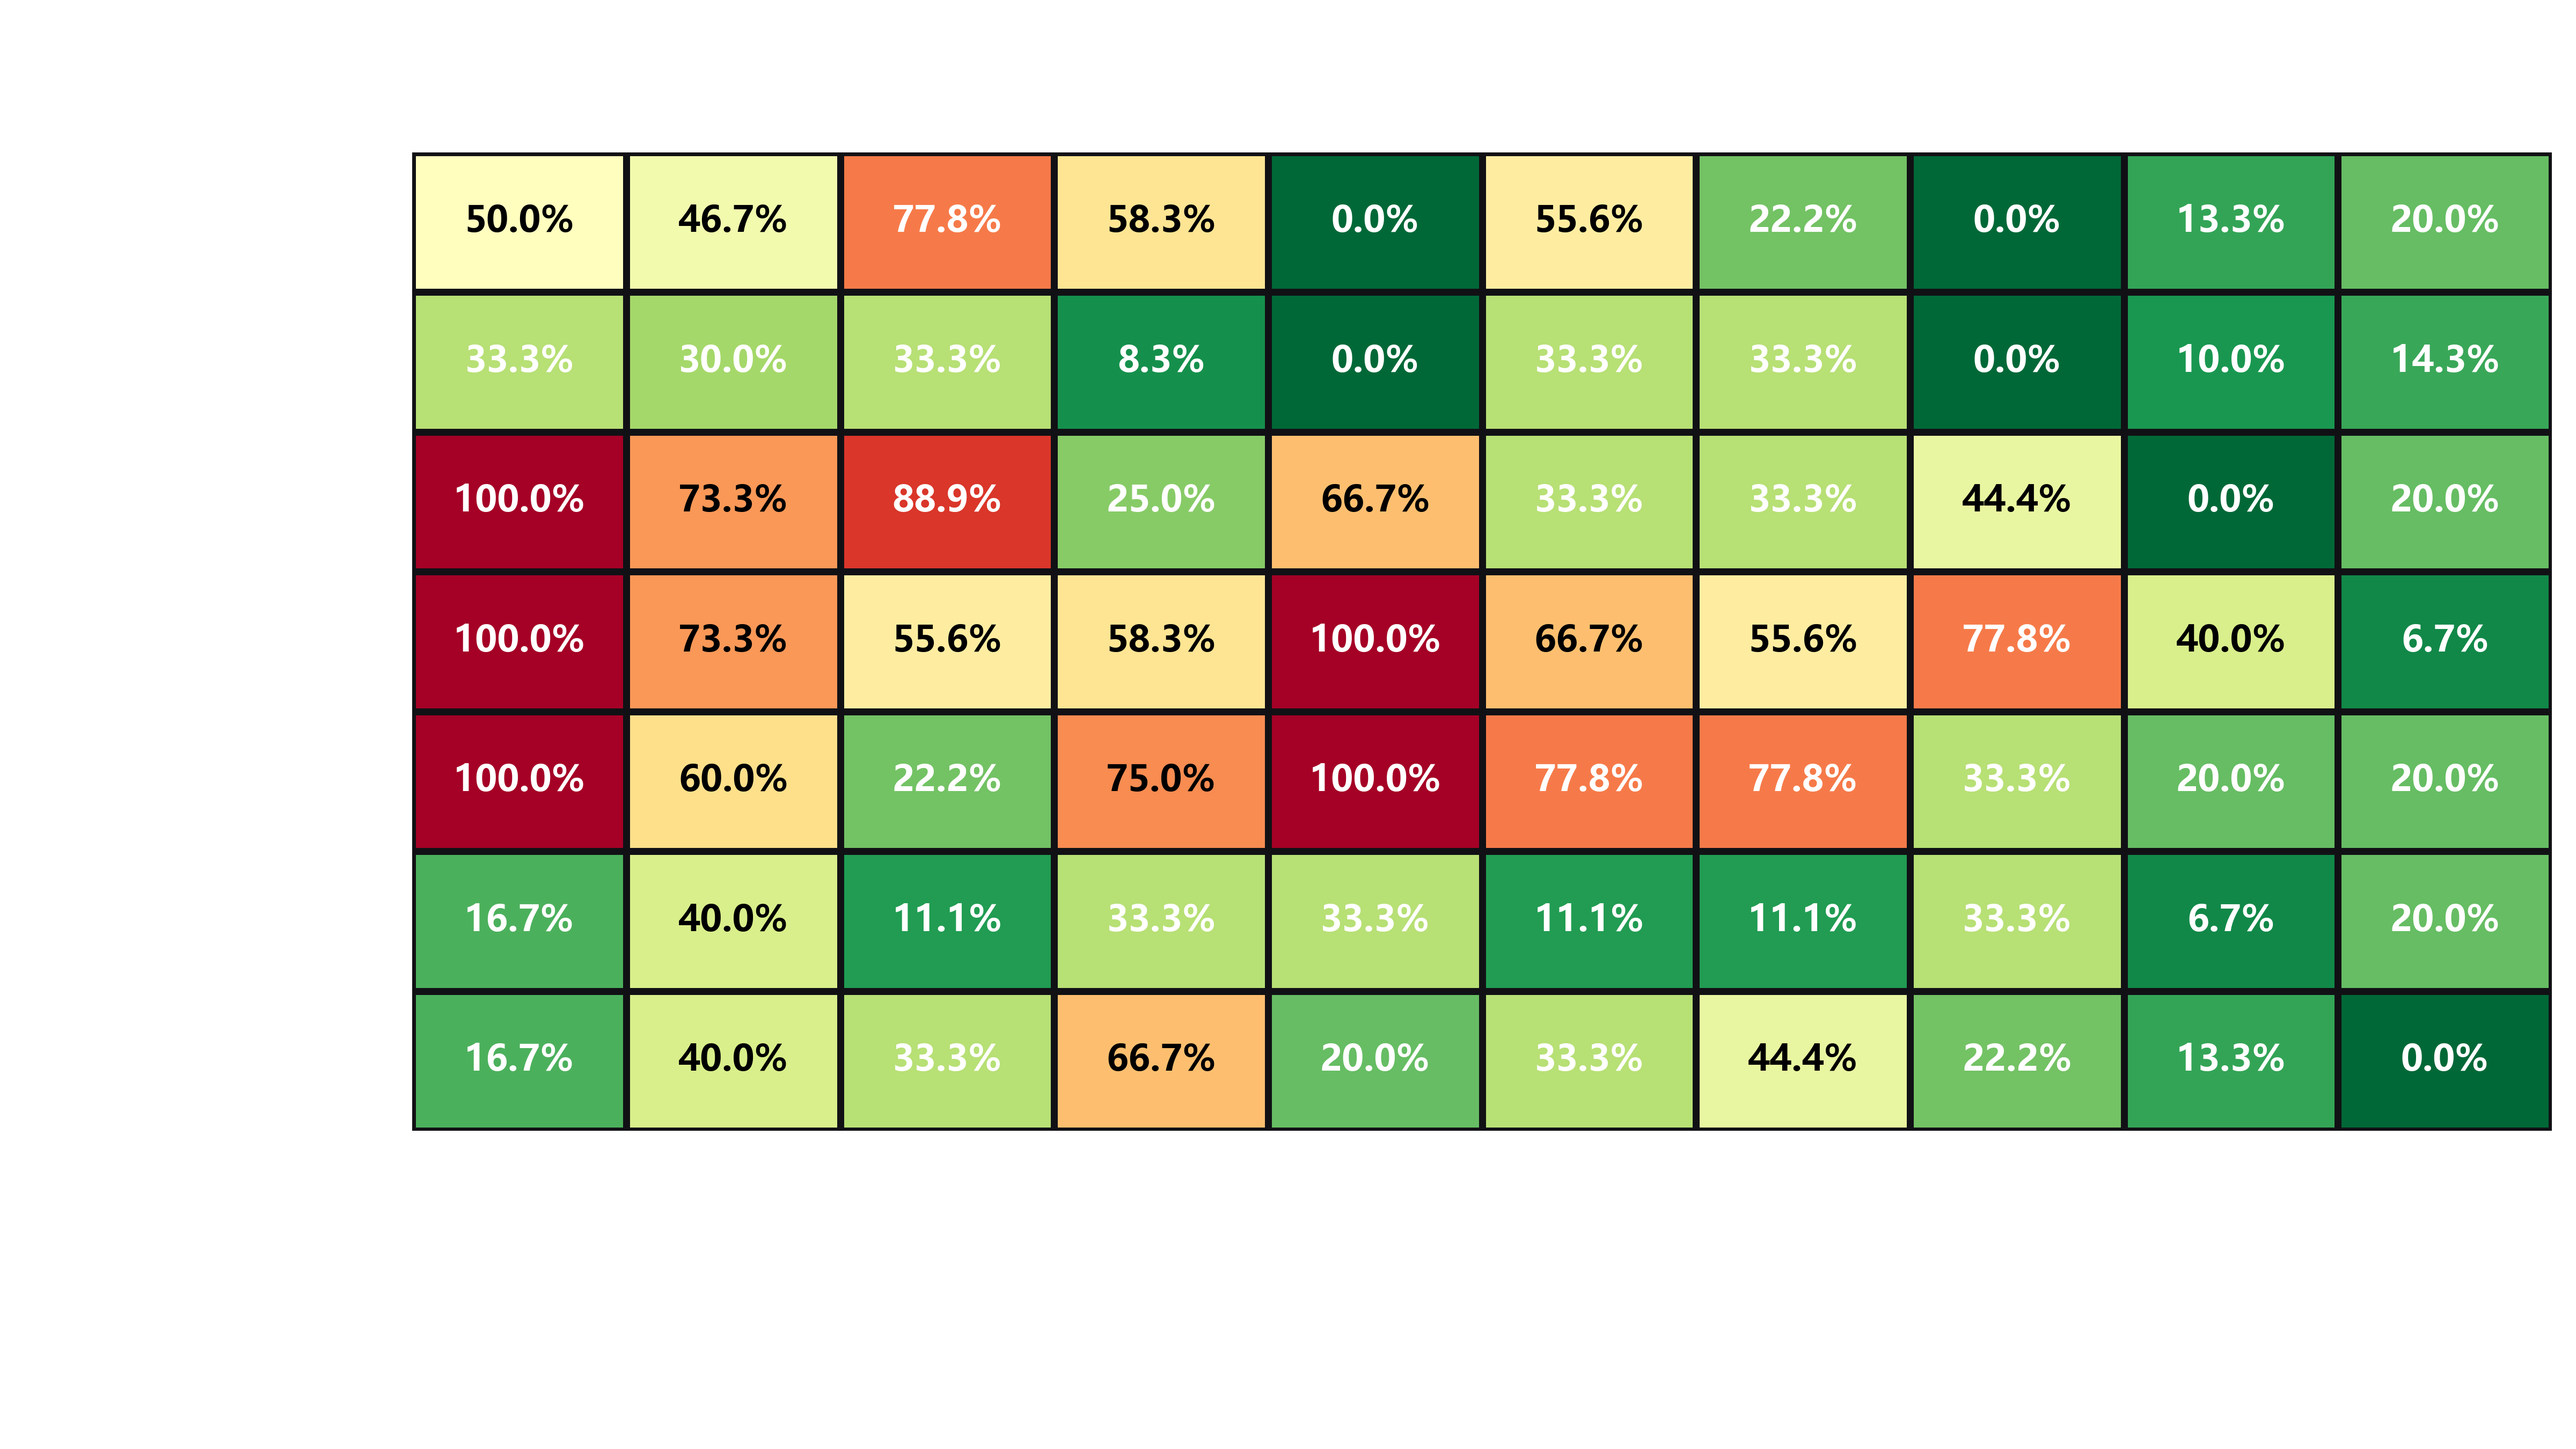
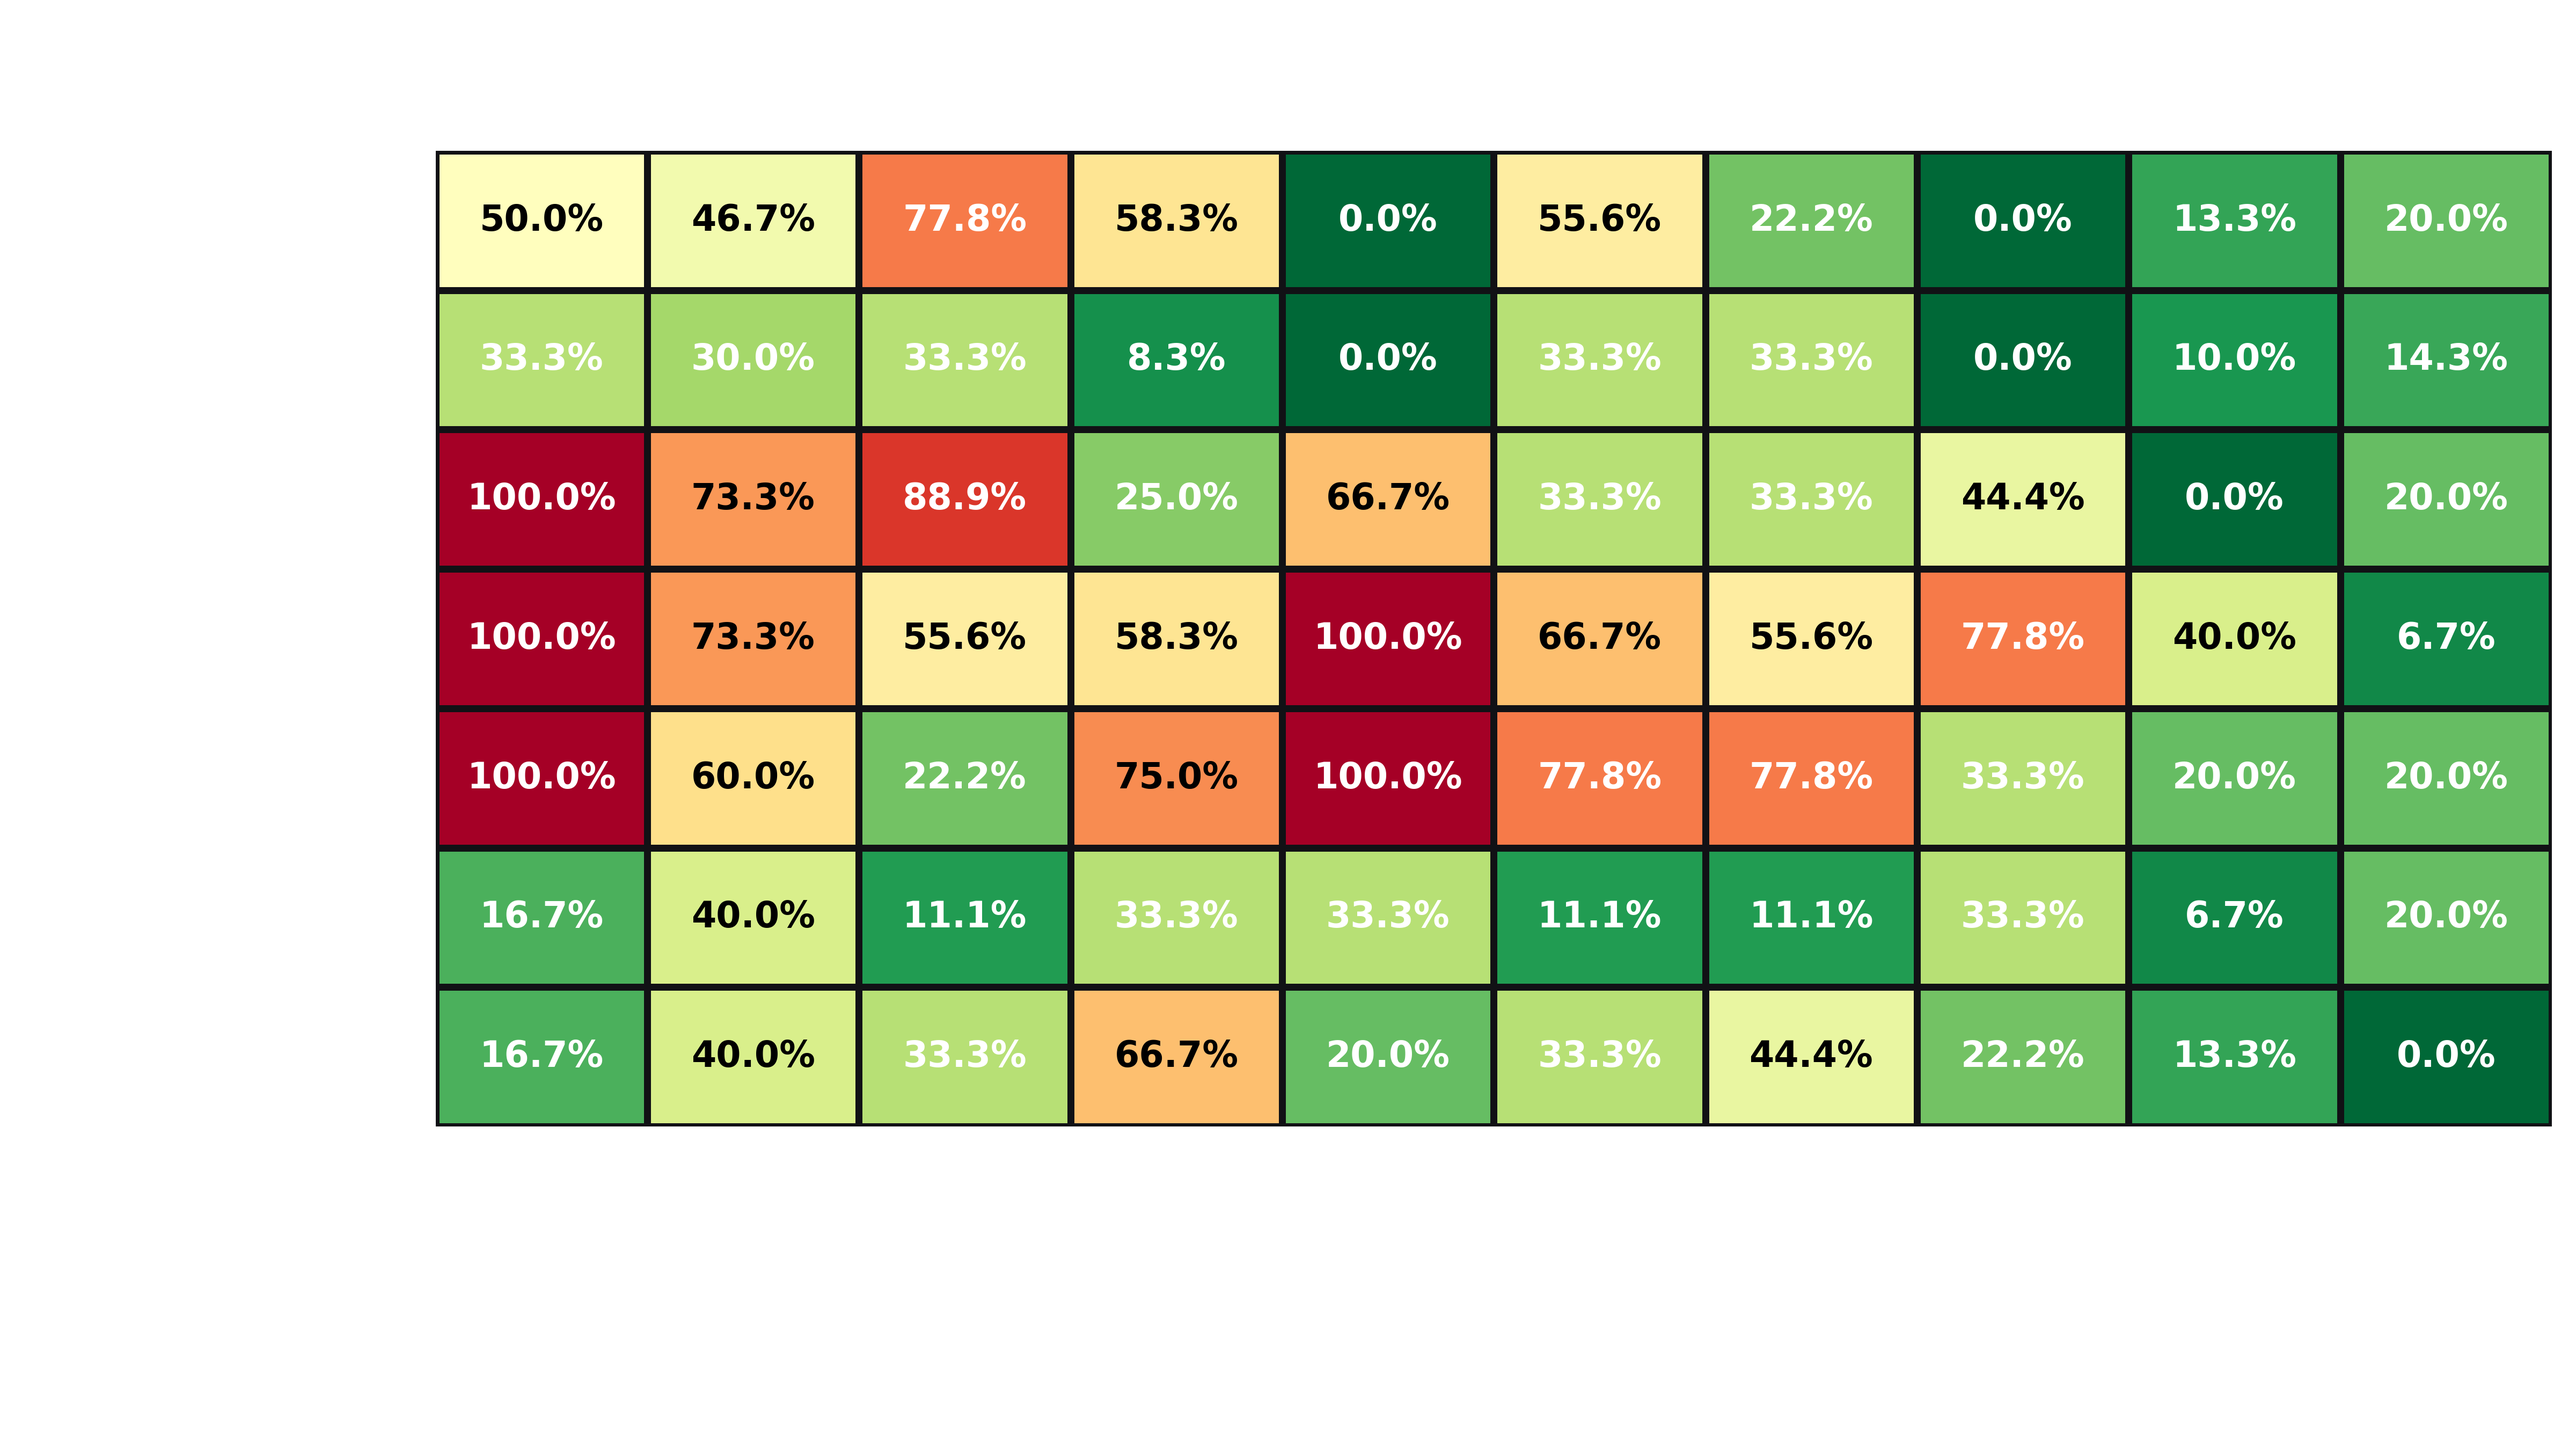
sync

Changed region(s): [[0.1562, 0.0933, 0.9688, 0.7778]]

diff --git a/viz/testing.py b/viz/testing.py
@@ -33,8 +33,9 @@ MATRIX_CELL_FONT_SIZE = 16
 BAR_DATA_LABEL_FONT_SIZE = 14
 AXIS_LABEL_FONT_SIZE = 18
 LEGEND_FONT_SIZE = 16
+DPI = 500
 
-IMG_DIR = "imgs"
+IMG_DIR = "rebrand"
 os.makedirs(IMG_DIR, exist_ok=True)
 
 BG_COLOR = '#1e1e24'
@@ -109,7 +110,7 @@ def _format_perf_matrix(df_pivot):
 def draw_heatmap(data_matrix, title, save_filename, mode="continuous",
                  float_fmt="{:.2f}", custom_bounds=None, reverse_cmap=False,
                  vmin=None, vmax=None):
-    fig, ax = plt.subplots(figsize=(16, 9), dpi=400)
+    fig, ax = plt.subplots(figsize=(16, 9), dpi=DPI)
     fig.patch.set_facecolor(BG_COLOR)
     ax.set_facecolor(BG_COLOR)
 
@@ -145,6 +146,12 @@ def draw_heatmap(data_matrix, title, save_filename, mode="continuous",
             else:
                 text_el.set_color('white')  # Clean white text for Green and Red boxes
 
+        ax.set_aspect('auto')
+
+        ax.set_title(title, color=TEXT_WHITE, fontsize=TITLE_FONT_SIZE, pad=35, weight='bold')
+        ax.set_xlabel("")
+        ax.set_ylabel("")
+
     elif mode == "threshold":
         # Changed sentinel to -999.0 so legitimate negative numbers aren't caught!
         plot_matrix = data_matrix.fillna(-999.0)
@@ -161,10 +168,11 @@ def draw_heatmap(data_matrix, title, save_filename, mode="continuous",
         norm = BoundaryNorm(bounds, cmap.N)
 
         annot_matrix = np.empty_like(plot_matrix.values, dtype=object)
+        # print(plot_matrix)
         for i in range(plot_matrix.shape[0]):
             for j in range(plot_matrix.shape[1]):
                 val = plot_matrix.iloc[i, j]
-                annot_matrix[i, j] = "ERROR" if val <= -999.0 else float_fmt.format(val)
+                annot_matrix[i, j] = "ERROR" if val == -1.0 else float_fmt.format(val)
 
         sns.heatmap(
             plot_matrix, cmap=cmap, norm=norm, annot=annot_matrix, fmt='', cbar=False,
@@ -237,11 +245,13 @@ def draw_heatmap(data_matrix, title, save_filename, mode="continuous",
     for tick in ax.get_yticklabels():
         tick.set_rotation(0)
 
-    plt.subplots_adjust(left=0.18, bottom=0.22)
+    plt.subplots_adjust(left=0.15, bottom=0.2)
     plt.tight_layout()
+    # Delete tight_layout() entirely and hardcode the box anchors!
+    # plt.subplots_adjust(left=0.1, right=0.9, bottom=0.15, top=0.85)
 
     full_path = os.path.join(IMG_DIR, save_filename)
-    plt.savefig(full_path, format='png', dpi=300, transparent=True)
+    plt.savefig(full_path, format='png', dpi=DPI, transparent=True)
     plt.close()
     print(f"🖼 Exported Heatmap: {full_path}")
 
@@ -258,7 +268,7 @@ def draw_barchart(data_series, title, xlabel, save_filename, reverse_cmap=False,
     models = data_series.index
     values = data_series.values
 
-    fig, ax = plt.subplots(figsize=(14, 8), dpi=300)
+    fig, ax = plt.subplots(figsize=(14, 8), dpi=DPI)
     fig.patch.set_facecolor(BG_COLOR)
     ax.set_facecolor(BG_COLOR)
 
@@ -296,7 +306,7 @@ def draw_barchart(data_series, title, xlabel, save_filename, reverse_cmap=False,
     plt.tight_layout()
 
     full_path = os.path.join(IMG_DIR, save_filename)
-    plt.savefig(full_path, format='png', dpi=300, transparent=True)
+    plt.savefig(full_path, format='png', dpi=DPI, transparent=True)
     plt.close()
     print(f"📊 Exported Bar Chart: {full_path}")
 
@@ -308,7 +318,7 @@ def draw_grouped_barchart(df_compare, title, xlabel, save_filename, float_fmt="{
     y = np.arange(len(models))
     height = 0.35
 
-    fig, ax = plt.subplots(figsize=(14, 8), dpi=300)
+    fig, ax = plt.subplots(figsize=(14, 8), dpi=DPI)
     fig.patch.set_facecolor(BG_COLOR)
     ax.set_facecolor(BG_COLOR)
 
@@ -355,7 +365,7 @@ def draw_grouped_barchart(df_compare, title, xlabel, save_filename, float_fmt="{
     plt.tight_layout()
 
     full_path = os.path.join(IMG_DIR, save_filename)
-    plt.savefig(full_path, format='png', dpi=300, transparent=True)
+    plt.savefig(full_path, format='png', dpi=DPI, transparent=True)
     plt.close()
     print(f"📊 Exported Grouped Bar Chart: {full_path}")
 
@@ -365,8 +375,8 @@ def draw_grouped_barchart(df_compare, title, xlabel, save_filename, float_fmt="{
 # ==============================================================================
 def plot_perf_ttft(raw_df, prompt_type="Short", title=None, filename=None):
     df = _load_data(raw_df)
-    title = title or f"MEAN TTFT (SECONDS) - {prompt_type.upper()} PROMPTS"
-    filename = filename or f"perf_ttft_{prompt_type.lower()}.png"
+    title = title or f"MEAN TTFT ({prompt_type.upper()}) | ▼ Lower is Better (Seconds)"
+    filename = filename or f"ttft_{prompt_type.lower()[0]}.png"
 
     df_pivot = df[df['Prompt Type'] == prompt_type].pivot_table(index='Hardware', columns='Model', values='TTFT',
                                                                 aggfunc='mean')
@@ -377,7 +387,7 @@ def plot_perf_ttft(raw_df, prompt_type="Short", title=None, filename=None):
                  reverse_cmap=True, float_fmt="{:.3f}")
 
 
-def plot_perf_ts(raw_df, title="TEXT GENERATION SPEED (T/S)", filename="perf_ts.png"):
+def plot_perf_ts(raw_df, title="GENERATION SPEED | ▲ Higher is Better (Tokens/Sec)", filename="ts.png"):
     df = _load_data(raw_df)
 
     df_pivot = df.groupby(['Hardware', 'Model'])['T/S'].mean().unstack()
@@ -390,18 +400,37 @@ def plot_perf_ts(raw_df, title="TEXT GENERATION SPEED (T/S)", filename="perf_ts.
 
 def plot_perf_status(raw_df, title="HARDWARE EVALUATION MATRIX", filename="perf_status.png"):
     df = _load_data(raw_df)
-    mean_combined = df.groupby(['Hardware', 'Model'])[['TTFT', 'T/S']].mean().reset_index()
 
-    def evaluate_status(row):
-        if pd.isna(row['TTFT']) or pd.isna(row['T/S']) or row['TTFT'] < 0 or row['T/S'] < 0: return 'ERROR'
-        if row['TTFT'] <= 0.3 and row['T/S'] >= 18: return 'EX'
-        if row['TTFT'] <= 0.8 and row['T/S'] >= 6: return 'GE'
-        return 'F'
+    # 1. Group by Hardware, Model, AND Prompt Type to evaluate Short and Long separately!
+    grouped = df.groupby(['Hardware', 'Model', 'Prompt Type'])[['TTFT', 'T/S']].mean().reset_index()
 
-    mean_combined['Status_Text'] = mean_combined.apply(evaluate_status, axis=1)
+    # 2. Evaluate each row individually and assign a numerical rank (Lowest is worst)
+    def evaluate_single(row):
+        if pd.isna(row['TTFT']) or pd.isna(row['T/S']) or row['TTFT'] < 0 or row['T/S'] < 0:
+            return 0  # ERROR
+        if row['TTFT'] <= 0.3 and row['T/S'] >= 18:
+            return 3  # EX
+        if row['TTFT'] <= 0.8 and row['T/S'] >= 6:
+            return 2  # GE
+        return 1  # F
 
-    df_pivot = mean_combined.pivot_table(index='Hardware', columns='Model', values='Status_Text',
-                                         aggfunc='first').fillna('ERROR')
+    grouped['Status_Num'] = grouped.apply(evaluate_single, axis=1)
+
+    # 3. Pivot to put 'Short' and 'Long' scores side-by-side for each Hardware/Model
+    status_pivot = grouped.pivot_table(index=['Hardware', 'Model'], columns='Prompt Type', values='Status_Num',
+                                       aggfunc='min')
+
+    # 4. Fill missing prompt types with ERROR (0), then take the worst score between Short and Long
+    status_pivot = status_pivot.fillna(0)
+    final_status_num = status_pivot.min(axis=1)
+
+    # 5. Map the winning number back to the text strings
+    rank_to_text = {0: 'ERROR', 1: 'F', 2: 'GE', 3: 'EX'}
+    final_status_text = final_status_num.map(rank_to_text).reset_index(name='Status_Text')
+
+    # 6. Pivot into the final 2D matrix for the heatmap exactly as before
+    df_pivot = final_status_text.pivot_table(index='Hardware', columns='Model', values='Status_Text',
+                                             aggfunc='first').fillna('ERROR')
     df_pivot = df_pivot.reindex(columns=MODELS_ORDER)
     df_pivot = _format_perf_matrix(df_pivot)
 
@@ -445,9 +474,9 @@ def _clean_jakub_df(raw_df):
 
 def plot_jakub_grades(raw_df, reasoning_mode='no_reasoning', title=None, filename=None):
     df, model_col = _clean_jakub_df(raw_df)
-    title = title or (
-        "MODEL PERFORMANCE - NO REASONING" if reasoning_mode == 'no_reasoning' else "MODEL PERFORMANCE - WITH REASONING")
-    filename = filename or f"jakub_grades_{reasoning_mode}.png"
+    base_title = "NR" if reasoning_mode == 'no_reasoning' else "R"
+    title = title or f"MODEL PERFORMANCE ({base_title}) | ▼ Lower is Better (Grade 1-5)"
+    filename = filename or f"j_{reasoning_mode[0]}.png"
 
     df_pivot = df[df['Reasoning_Mode'] == reasoning_mode].pivot_table(index=model_col, columns='Test_Type',
                                                                       values='Grade', aggfunc='mean')
@@ -457,7 +486,7 @@ def plot_jakub_grades(raw_df, reasoning_mode='no_reasoning', title=None, filenam
                  float_fmt="{:.2f}")
 
 
-def plot_jakub_delta(raw_df, title="REASONING IMPROVEMENT DELTA", filename="jakub_delta.png"):
+def plot_jakub_delta(raw_df, title="REASONING IMPROVEMENT DELTA | ▲ Higher is Better", filename="j_delta.png"):
     df, model_col = _clean_jakub_df(raw_df)
 
     df_no = df[df['Reasoning_Mode'] == 'no_reasoning'].pivot_table(index=model_col, columns='Test_Type', values='Grade',
@@ -471,7 +500,7 @@ def plot_jakub_delta(raw_df, title="REASONING IMPROVEMENT DELTA", filename="jaku
 
 
 def plot_jakub_compare_bar(raw_df, title="AVERAGE GRADE: NO REASONING vs WITH REASONING",
-                           filename="jakub_compare_bar.png"):
+                           filename="j_compare.png"):
     df, model_col = _clean_jakub_df(raw_df)
 
     s_no = df[df['Reasoning_Mode'] == 'no_reasoning'].groupby(model_col)['Grade'].mean()
@@ -484,7 +513,7 @@ def plot_jakub_compare_bar(raw_df, title="AVERAGE GRADE: NO REASONING vs WITH RE
 # ==============================================================================
 # 🎯 3. MARTIN WRAPPERS (Jailbreak Success Rate)
 # ==============================================================================
-def plot_martin_jsr(raw_df, title="JAILBREAK SUCCESS RATE (%)", filename="martin_jsr.png"):
+def plot_martin_jsr(raw_df, title="JAILBREAK SUCCESS RATE | ▼ Lower is Better / More Secure", filename="martin_jsr.png"):
     df = _load_data(raw_df)
     df_pivot = df.pivot_table(index='Model', columns='Attack Category', values='JSR', aggfunc='mean')
     # Enforce both Row (Model) and Column (Attack) ordering!
